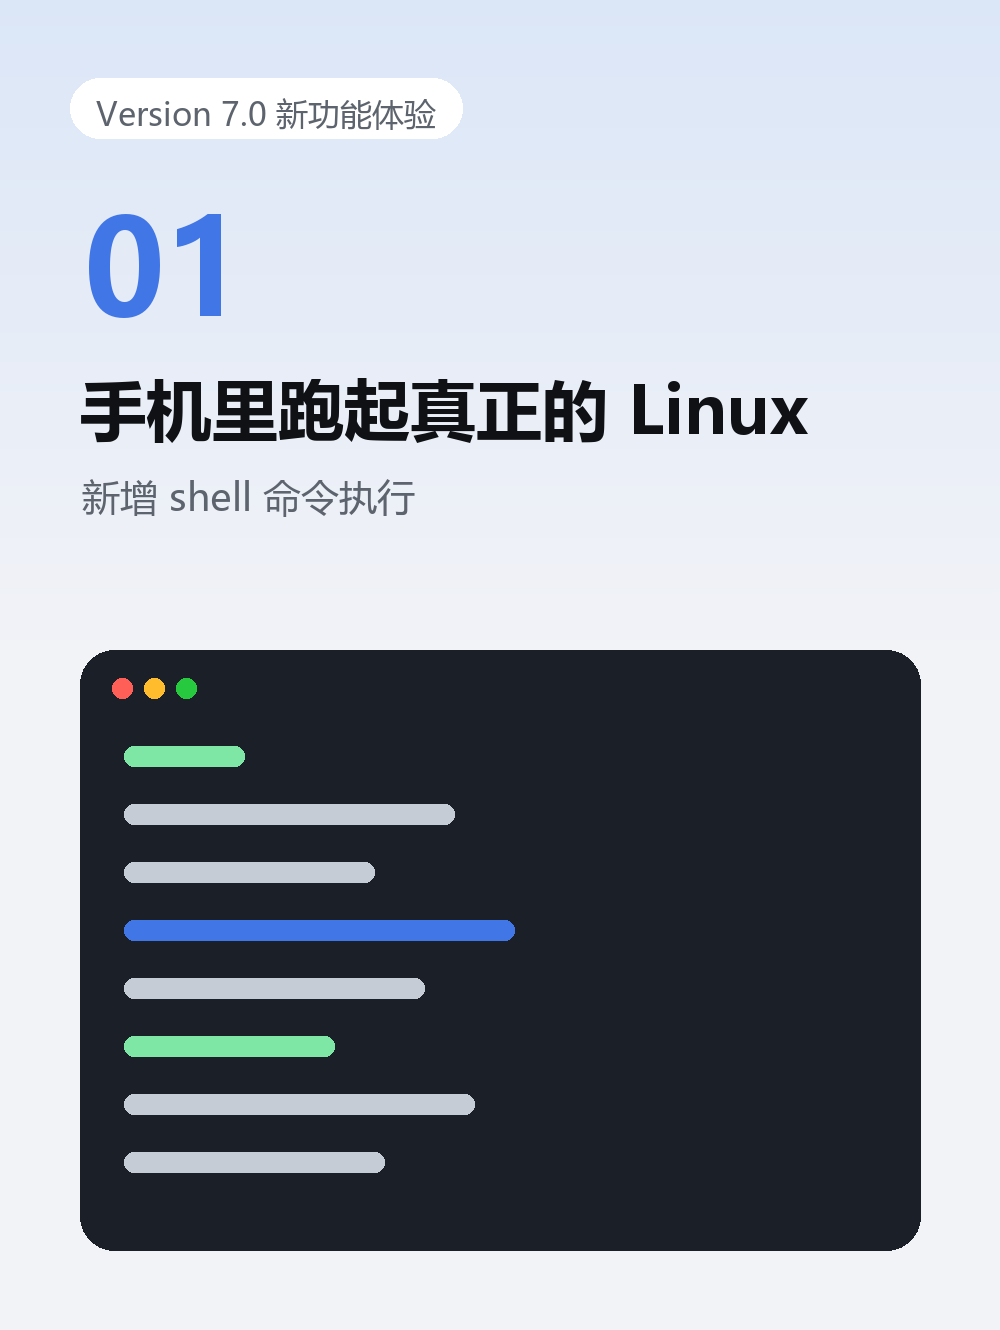
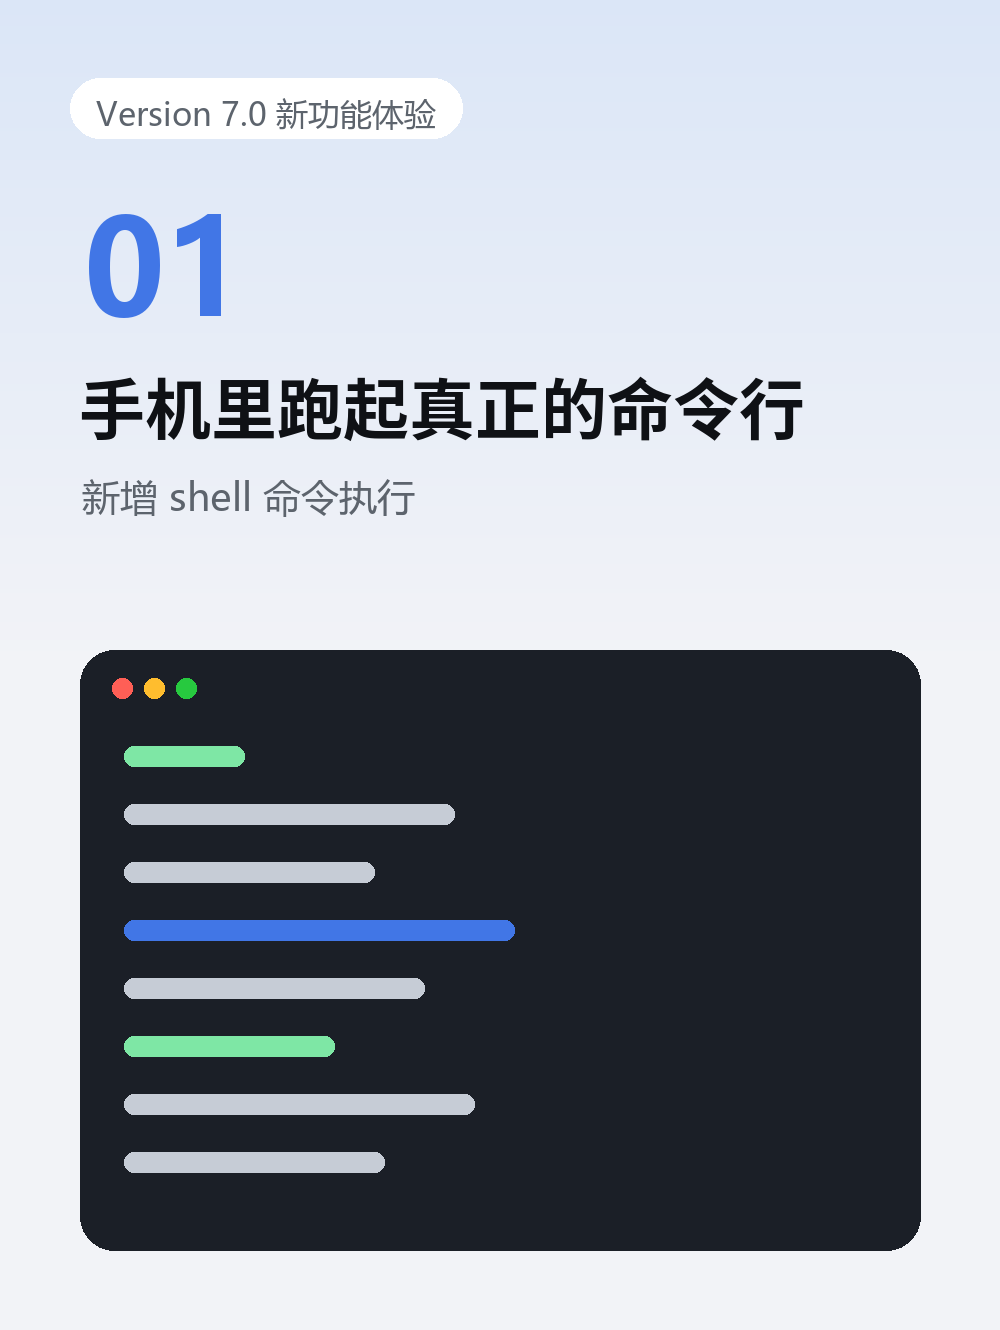
docs(玩转应用): 同步 shell 原生执行的页面文案与配图

Changed region(s): [[0.093, 0.2774, 0.806, 0.3391]]

diff --git a/entry/src/main/resources/rawfile/玩转应用/index.html b/entry/src/main/resources/rawfile/玩转应用/index.html
@@ -60,7 +60,7 @@
           </div>
           <div class="card-body">
             <div class="card-title">探索 Version 7.0 开启的生产力革命</div>
-            <div class="card-text">手机里第一次装下完整的 Linux 与原生 Python：命令行走的是真正的 Alpine，Python 是编译进应用的原生 CPython 3.12，三方库随包离线可用；另外补上 @ 引用文件、编辑前读取校验与项目指令。</div>
+            <div class="card-text">手机里第一次装下完整的命令行环境与原生 Python：mksh 与随包命令开箱即用，Python 是编译进应用的原生 CPython 3.12，三方库随包离线可用；另外补上 @ 引用文件、编辑前读取校验与项目指令。</div>
           </div>
           <div class="card-arrow"><svg viewBox="0 0 24 24"><path d="m9 6 6 6-6 6"/></svg></div>
         </a>
@@ -842,7 +842,7 @@
         <div class="card">
           <div class="card-body">
             <div class="card-title">设备内执行代码（run_js）</div>
-            <div class="card-text">run_js 补上了工作模式最后一块拼图：在没有终端、不能安装软件的环境里，它也能「写几行代码算一下」。典型场景——把格式凌乱的文本按正则清洗、统计一组数据的分布、按规则从已有文件重组出结构化数据、批量生成接下来要成文的表格；凡是「写段代码处理」比「读进对话再写」更划算的活，都可以交给它。</div>
+            <div class="card-text">run_js 补上了工作模式最后一块拼图：不想开一整套命令行的时候，它也能「写几行代码算一下」。典型场景——把格式凌乱的文本按正则清洗、统计一组数据的分布、按规则从已有文件重组出结构化数据、批量生成接下来要成文的表格；凡是「写段代码处理」比「读进对话再写」更划算的活，都可以交给它。</div>
             <div class="card-text">它是设备本机上的独立 JS 引擎沙箱：每次执行都是全新实例，不联网、不能读写文件系统、也不能加载外部模块。文件进出由工作区显式桥接——在 files 参数里列出的工作区文件会以只读方式预载给脚本，脚本里用 write 声明的产出会在执行成功后落入工作区（路径同样受工作区边界校验）。</div>
             <div class="card-text">执行跑在后台线程，界面不会卡住；单次执行有默认 10 秒上限，内存与输出体积也都有上限。唯一无法兜底的是死循环——JS 引擎没有中断接口，遇到这种情况系统会放弃等待、把错误交回，让你改写代码（连续超时后本会话会暂时停用该工具，重启应用即恢复），而不是让界面一直转圈。</div>
             <div class="card-text">与 transform_file 的分工：规则固定、批量清洗转换用 transform_file（内置管道，数据不进对话）；需要现写逻辑、做计算或程序化拼数据时用 run_js。最顺手的接力是 run_js 产出 JSON，再交给 write_docx / write_xlsx / write_pptx 成文。</div>
@@ -1513,7 +1513,7 @@
            011-9 长任务不熄屏      011-10 其他修复 -->
       <div class="gallery">
         <div class="gallery-track">
-          <img src="assets/011-1.png" alt="手机里跑起真正的 Linux">
+          <img src="assets/011-1.png" alt="手机里跑起真正的命令行">
           <img src="assets/011-2.png" alt="原生 Python 3.12">
           <img src="assets/011-3.png" alt="敲一个 @ 点名文件">
           <img src="assets/011-4.png" alt="编辑前先读取">
@@ -1533,11 +1533,11 @@
         <!-- 1 命令执行 shell -->
         <div class="card">
           <div class="card-body">
-            <div class="card-title">手机里跑起真正的 Linux</div>
-            <div class="card-text">工作模式新增 shell 工具。它不是另造一个「模拟命令行」，而是设备内一台真正的 Linux 虚拟机——Alpine 3.22 + Linux 6.12 内核：管道、重定向、通配符，以及 sed / awk / find / xargs / tar / gzip 全部是真语义。虚拟机用 QEMU 的解释模式（TCI）运行，指令逐条解释、不生成机器码，因此不需要 JIT 这类手机上很难拿到的权限，正式上架的包也能用。</div>
-            <div class="card-text">缺什么运行时自己装：apk add python3、apk add nodejs、apk add jq 都行，装包的流量走虚拟机内建的网络栈，不必额外申请权限；镜像里已经预装 python3、pip、jq 与 CA 证书，不用先联网。</div>
-            <div class="card-text">目录和别的工具是同一份：会话工作区直接挂进虚拟机，cat data/a.csv 与 read_file("data/a.csv") 读的是同一批文件——shell 写的文件工具立刻能读到，工具写的文件 shell 里 cat 也立刻可见，中间没有「同步」这一环。</div>
-            <div class="card-text">开销与边界：首次调用要释放镜像并冷启动，约数十秒；之后同一进程内复用，空闲 10 分钟自动关机释放内存。命令默认 60 秒超时、上限 240 秒；输出超过 60 KB 时全文落到工作区 .spill/，随时能再读回来。命令退出码非 0 不算工具失败（grep 没匹配到本来就返回 1），由模型结合报错自己判断。</div>
+            <div class="card-title">手机里跑起真正的命令行</div>
+            <div class="card-text">工作模式提供 shell 工具：管道、重定向、通配符、命令替换、here-doc 与 case / for / while 都是 mksh 的真语义，不是另造一个「模拟命令行」。命令都是随包的 HarmonyOS 原生 .so，由执行核加载并 fork 直接运行，单条命令约 0.2–1.5 秒，不需要 JIT 这类手机上很难拿到的权限，正式上架的包也能用。</div>
+            <div class="card-text">命令随包即用，不用先联网安装：mksh、toybox 的 70 多个命令（ls / cat / grep / sed / awk / find / xargs …）、tar / zip / unzip / cpio、git（含 HTTPS）/ ssh / scp / sftp / curl / nc、jq / bc / diff、node / npm 与 python3 都在包里；命令能力由随包命令集决定。</div>
+            <div class="card-text">目录和别的工具是同一份：cwd 就是会话工作区，cat data/a.csv 与 read_file("data/a.csv") 读的是同一批文件——shell 写的文件工具立刻能读到，工具写的文件 shell 里 cat 也立刻可见，中间没有「同步」这一环。</div>
+            <div class="card-text">环境与边界：注入 PATH / HOME / TMPDIR，id、whoami 与 #!/usr/bin/env sh 都能正常工作，内置 CA 让 git clone、curl 与 Python 的 ssl 开箱可校验；命令默认 60 秒超时、上限 240 秒，同一时刻最多 8 条并发、超出排队；stdout / stderr 各截断到 60 KB，全文落到工作区 .spill/，随时能再读回来。命令退出码非 0 不算工具失败（grep 没匹配到本来就返回 1），由模型结合报错自己判断。</div>
           </div>
         </div>
 
@@ -1545,9 +1545,9 @@
         <div class="card">
           <div class="card-body">
             <div class="card-title">原生 Python 3.12：数据分析不必再到电脑上做</div>
-            <div class="card-text">虚拟机里的 Python 是被逐条仿真执行的，实测比原生慢两三个数量级。既然 JIT 权限拿不到，就把 CPython 3.12 直接编译成应用内的原生 .so：run_python 在应用进程里直接跑，中间没有指令翻译层，CPU 密集型负载回到可用区间。</div>
+            <div class="card-text">CPython 3.12 被编译成应用内的原生 .so：run_python 在应用进程里直接跑，中间没有指令翻译层，CPU 密集型负载也能落在可用区间。</div>
             <div class="card-text">numpy、pandas、scipy、matplotlib、lxml、sympy、python-docx、python-pptx 随包离线可用；ssl（含 118 张 CA 证书）、sqlite3、bz2、lzma 与完整时区数据也都补齐了，不用先联网装库。随包思源黑体，matplotlib 画中文标签不再是一排方块。</div>
-            <div class="card-text">还能在管道里用：虚拟机里放了一个 npy 桥，把 Python 转发给宿主原生解释器，npy gen.py | jq ... 一条命令跑完；单次往返约 134 毫秒，而在虚拟机里启动 python3 -c pass 要 3.1 秒。</div>
+            <div class="card-text">shell 里也能直接用：python3 与 run_python 共用同一份解释器、同一套标准库与三方库，python3 gen.py | jq ... 这样的管道一条命令跑完；每次调用由独立进程加载解释器，单次崩溃或被终止只影响那一次，不会把状态带到下一次，sys.exit(7) 的退出码也原样回传。</div>
             <div class="card-text">边界写清楚：默认 30 秒、上限 180 秒；输出超过 20000 字符落到 .spill/；运行期不能 pip install，缺库时会给出替代方案；解释器安装目录只读；每次调用前后会把环境变量、随机种子、警告过滤器这类进程级状态回滚，上一个脚本影响不到下一个。</div>
           </div>
         </div>
@@ -1569,7 +1569,7 @@
             <div class="card-title">编辑前先读取：不再照着记忆改文件</div>
             <div class="card-text">现在 edit 动手前必须先读过这个文件：没读过会被拒绝，并回一句可以直接照抄的 read_file("同一路径")；读过之后文件又被改过（哪怕字节数恰好没变），也会拒绝，让你重读一遍。</div>
             <div class="card-text">判断依据是文件大小、修改时间与开头 8 KB 的指纹——你自己改的、shell 改的、Python 改的都算，同一秒内的改动也逃不掉。</div>
-            <div class="card-text">于是「改错文件」这件事，从「靠提示词劝模型小心」变成了「内核直接拦住」；文件删掉或改名时，登记会一起清掉，不会把新建的同名文件当成已读过。</div>
+            <div class="card-text">于是「改错文件」这件事，从「靠提示词劝模型小心」变成了「应用直接拦住」；文件删掉或改名时，登记会一起清掉，不会把新建的同名文件当成已读过。</div>
           </div>
         </div>
 

diff --git a/entry/src/main/resources/rawfile/玩转应用/维护指南.md b/entry/src/main/resources/rawfile/玩转应用/维护指南.md
@@ -14,10 +14,10 @@ rawfile/玩转应用/
 └── 维护指南.md       本文件
 ```
 
-## 本次修订（Version 7.0.0 · 设备内 Linux 与原生 Python）
+## 本次修订（Version 7.0.0 · 设备内命令执行与原生 Python）
 
 - 首页「新功能体验」面板改成**三块入口**：Version 7.0（新增，`#/011`）在最前，其后是 Version 6.3（`#/010`）与 Version 6.2（`#/008`）。
-- 新增一页 **「Version 7.0 新功能体验」**（`view-011`，`#/011`），10 张图 + 10 张一一对应的介绍卡：命令执行 `shell`、原生 Python `run_python`、@ 引用文件、编辑前读取校验、项目指令、预置服务商与多模型、自动重试、插话、长任务不熄屏、其余静默失败的修复。
+- 新增一页 **「Version 7.0 新功能体验」**（`view-011`，`#/011`），10 张图 + 10 张一一对应的介绍卡：设备内命令执行 `shell`、原生 Python `run_python`、@ 引用文件、编辑前读取校验、项目指令、预置服务商与多模型、自动重试、插话、长任务不熄屏、其余静默失败的修复。
 - `assets/011-1.png ~ 011-10.png` 是这一页的**正式配图**（随页面一起生成，与卡片一一对应）；要换图时用**同名文件覆盖**即可，`index.html` 一行都不用改。图与卡是「第 N 张 ↔ 第 N 张」绑定，增删务必成对。
 - 原有页面（了解 Guncat Work / 基础功能 / 进阶功能 / 快速上手 / 工作模式 / 聊天引擎 / 表格识别插件 / 6.3 / 6.2 / 交互模式）**图片引用与正文一律没动**。
 
